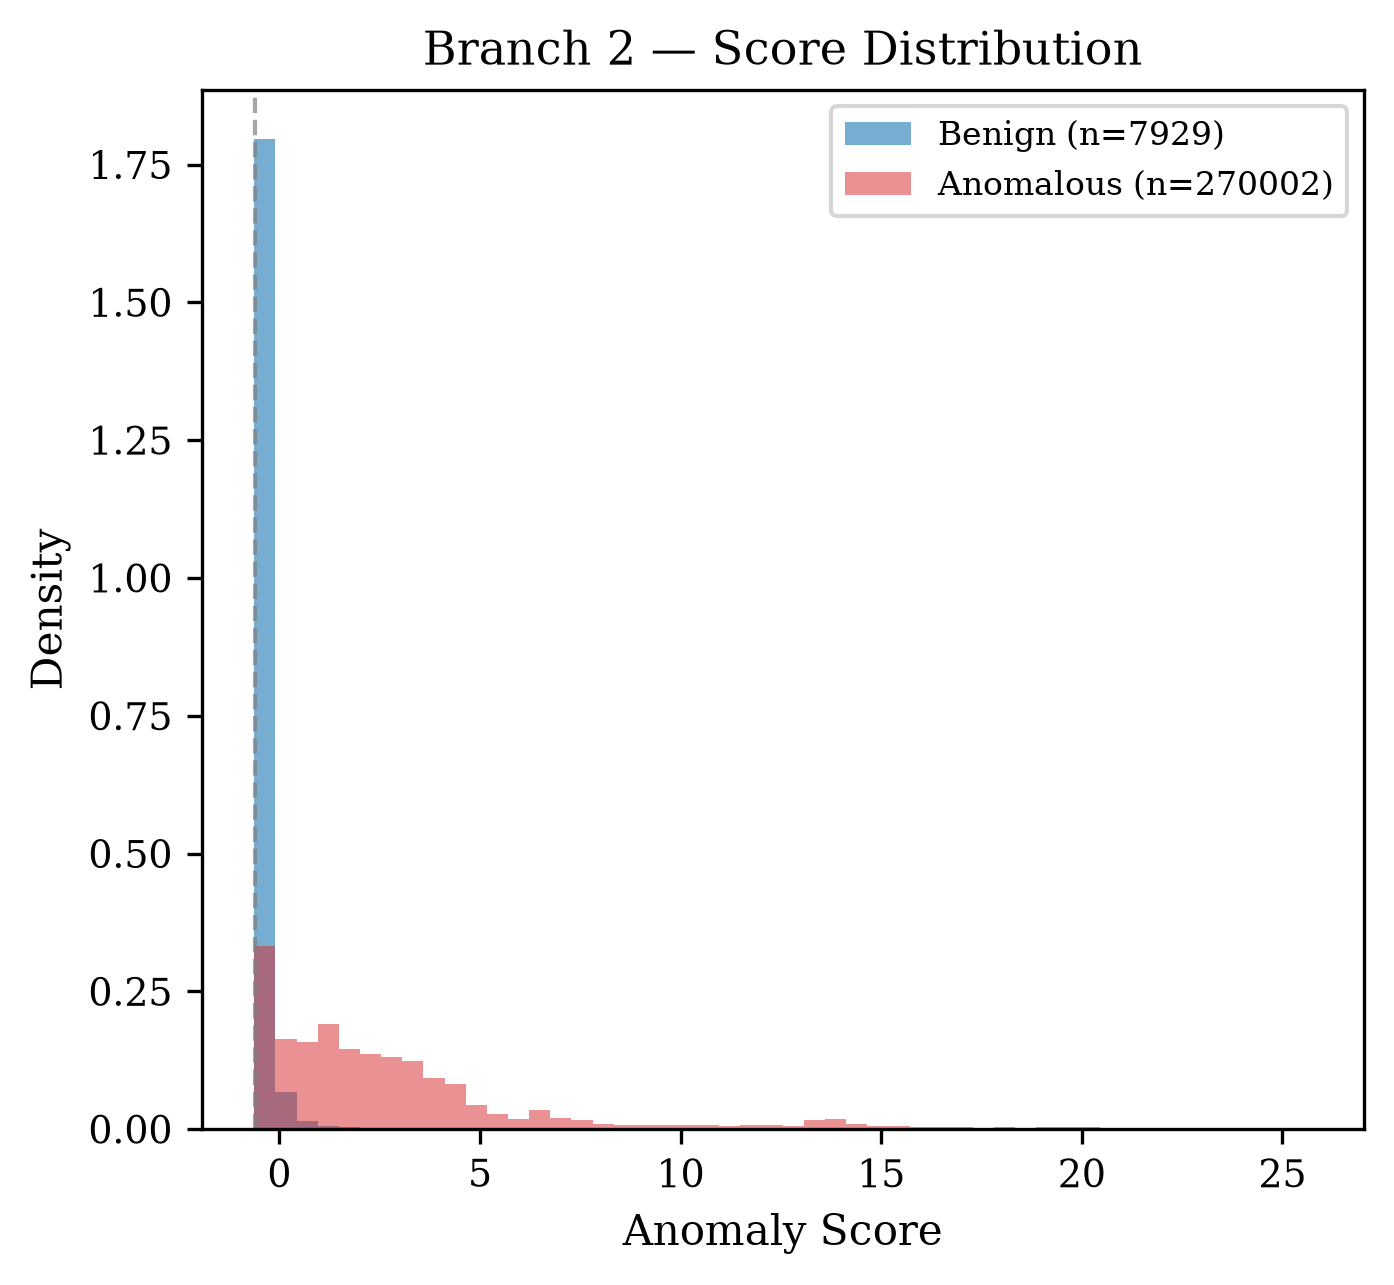
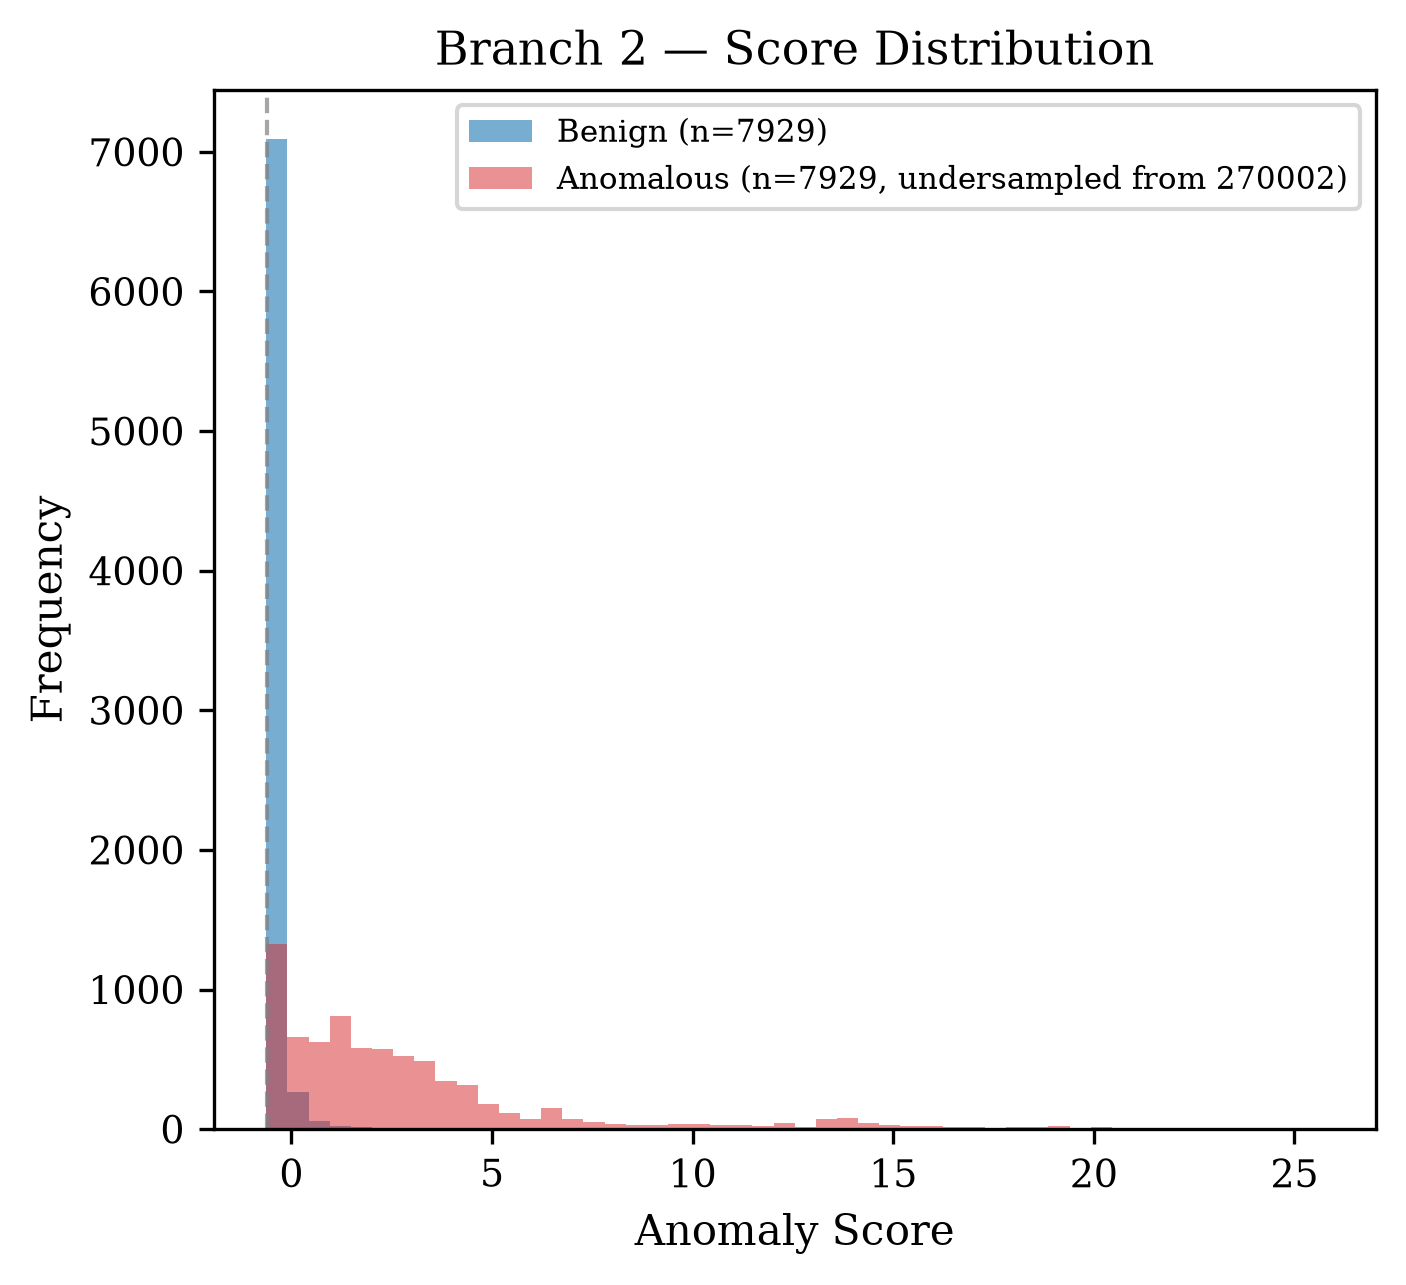
Branch2: undersample anomalous class for score-dist chart instead of density normalization
Per feedback: prefer undersampling the larger class (anomalous, n=270K)
down to match the smaller one (benign, n=7.9K) over density=True
normalization -- keeps every plotted point a real observation and raw bar
heights stay directly comparable. Seed=42, matches project convention.

diff --git a/train/generate_metrics.py b/train/generate_metrics.py
@@ -305,20 +305,28 @@ def compute_branch2_metrics(detector, test_benign, anom_df):
     logger.info("[Branch 2] Threshold trade-off plot saved")
 
     # ── Score Distribution ──
-    # density=True so the two classes are visually comparable despite the
-    # huge sample-size imbalance (benign n=7.9K vs anomalous n=270K) — a
-    # raw-frequency histogram would dwarf the benign bars regardless of how
-    # well-separated the two distributions actually are.
+    # Undersample the larger class (anomalous, n=270K) down to the smaller
+    # one (benign, n=7.9K) so both histograms use the same N and raw bar
+    # heights are directly comparable — no density normalization needed.
+    # Undersampling (not oversampling benign) keeps every plotted point a
+    # real, distinct observation. Seed matches project.random_seed (42,
+    # config not threaded into this function — see load_config() call in
+    # load_branch2_model_and_data() for the project-wide source of truth).
+    rng = np.random.default_rng(42)
+    n_plot = min(len(benign_scores), len(anom_scores))
+    benign_plot = rng.choice(benign_scores, size=n_plot, replace=False) if len(benign_scores) > n_plot else benign_scores
+    anom_plot = rng.choice(anom_scores, size=n_plot, replace=False) if len(anom_scores) > n_plot else anom_scores
+
     fig, ax = plt.subplots(figsize=(5, 4.5))
-    ax.hist(benign_scores, bins=50, range=(display_lo, display_hi), density=True, alpha=0.6,
-             color="#1f77b4", label=f"Benign (n={len(benign_scores)})")
-    ax.hist(anom_scores, bins=50, range=(display_lo, display_hi), density=True, alpha=0.5,
-             color="#d62728", label=f"Anomalous (n={len(anom_scores)})")
+    ax.hist(benign_plot, bins=50, range=(display_lo, display_hi), alpha=0.6,
+             color="#1f77b4", label=f"Benign (n={len(benign_plot)})")
+    ax.hist(anom_plot, bins=50, range=(display_lo, display_hi), alpha=0.5,
+             color="#d62728", label=f"Anomalous (n={len(anom_plot)}, undersampled from {len(anom_scores)})")
     ax.axvline(x=current_thresh_approx, color="gray", ls="--", lw=1, alpha=0.7)
     ax.set_xlabel("Anomaly Score")
-    ax.set_ylabel("Density")
+    ax.set_ylabel("Frequency")
     ax.set_title("Branch 2 — Score Distribution")
-    ax.legend(fontsize=8)
+    ax.legend(fontsize=7.5)
     fig.savefig(FIGURES_DIR / "branch2_score_dist.png")
     plt.close(fig)
     logger.info("[Branch 2] Score distribution saved")
